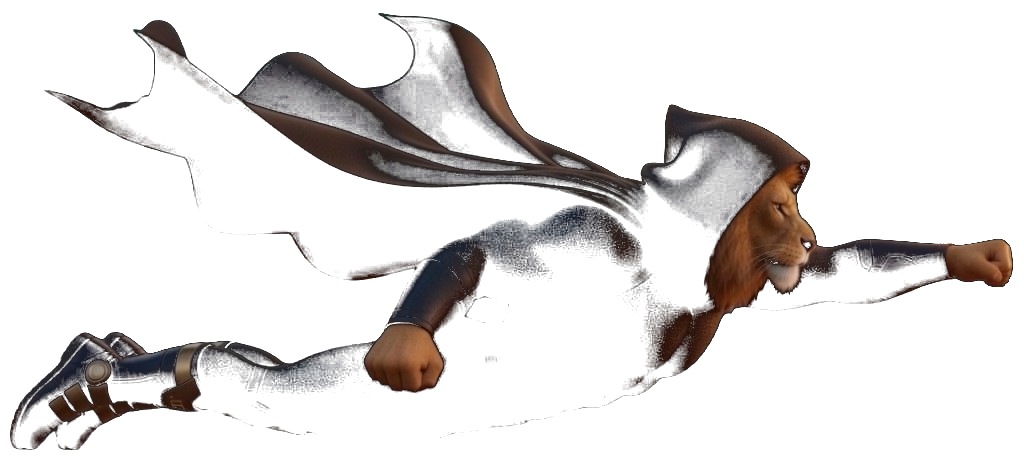
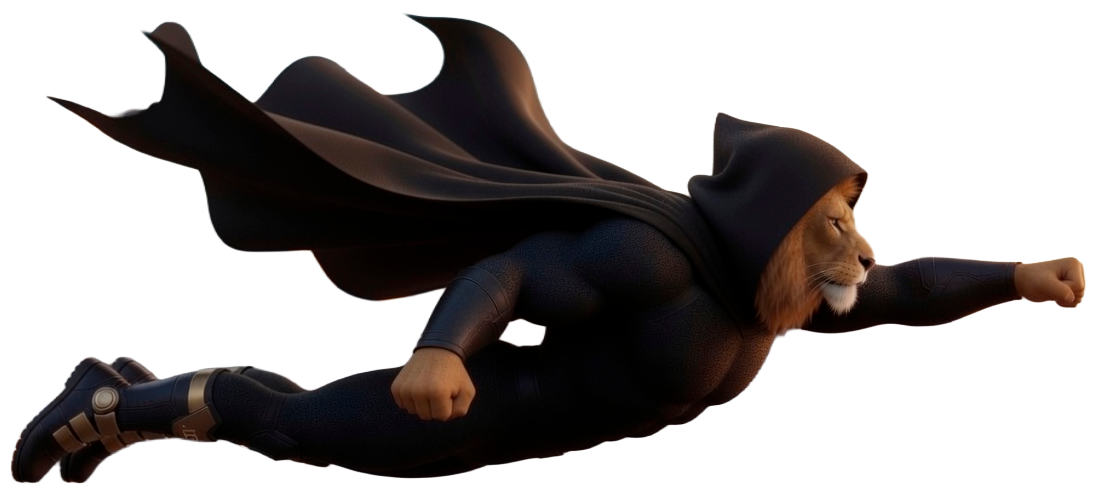
Usar l2.png transparente como sprite del leon volador.
Reemplaza el recorte generado por el PNG original sin fondo desde Downloads.

diff --git a/public/client.html b/public/client.html
@@ -15,7 +15,7 @@
       rel="stylesheet"
     />
     <link rel="stylesheet" href="/styles.css?v=20260616-tracking-history-remove01" />
-    <link rel="stylesheet" href="/client-sequoia-game.css?v=20260616-lionfly02" />
+    <link rel="stylesheet" href="/client-sequoia-game.css?v=20260616-lionfly03" />
   </head>
   <body>
     <main class="client-shell">
@@ -520,7 +520,7 @@
       </section>
     </div>
 
-    <script src="/client-sequoia-game.js?v=20260616-lionfly02"></script>
+    <script src="/client-sequoia-game.js?v=20260616-lionfly03"></script>
     <script src="/client-portal.js?v=20260616-tracking-history-remove01"></script>
   </body>
 </html>

diff --git a/public/sequoia-game.html b/public/sequoia-game.html
@@ -8,7 +8,7 @@
     <link rel="preconnect" href="https://fonts.gstatic.com" crossorigin />
     <link href="https://fonts.googleapis.com/css2?family=Manrope:wght@400;500;700;800&family=Syne:wght@500;700;800&display=swap" rel="stylesheet" />
     <link rel="stylesheet" href="/styles.css?v=20260525-feed-social11" />
-    <link rel="stylesheet" href="/client-sequoia-game.css?v=20260616-lionfly02" />
+    <link rel="stylesheet" href="/client-sequoia-game.css?v=20260616-lionfly03" />
     <style>
       body {
         margin: 0;
@@ -44,7 +44,7 @@
       <p>Toca la pantalla para volar con la Toyota Sequoia y esquiva los semáforos.</p>
       <div id="sequoia-game-root"></div>
     </main>
-    <script src="/client-sequoia-game.js?v=20260616-lionfly02"></script>
+    <script src="/client-sequoia-game.js?v=20260616-lionfly03"></script>
     <script>
       window.SequoiaFlappyGame.mount(document.getElementById("sequoia-game-root"));
     </script>